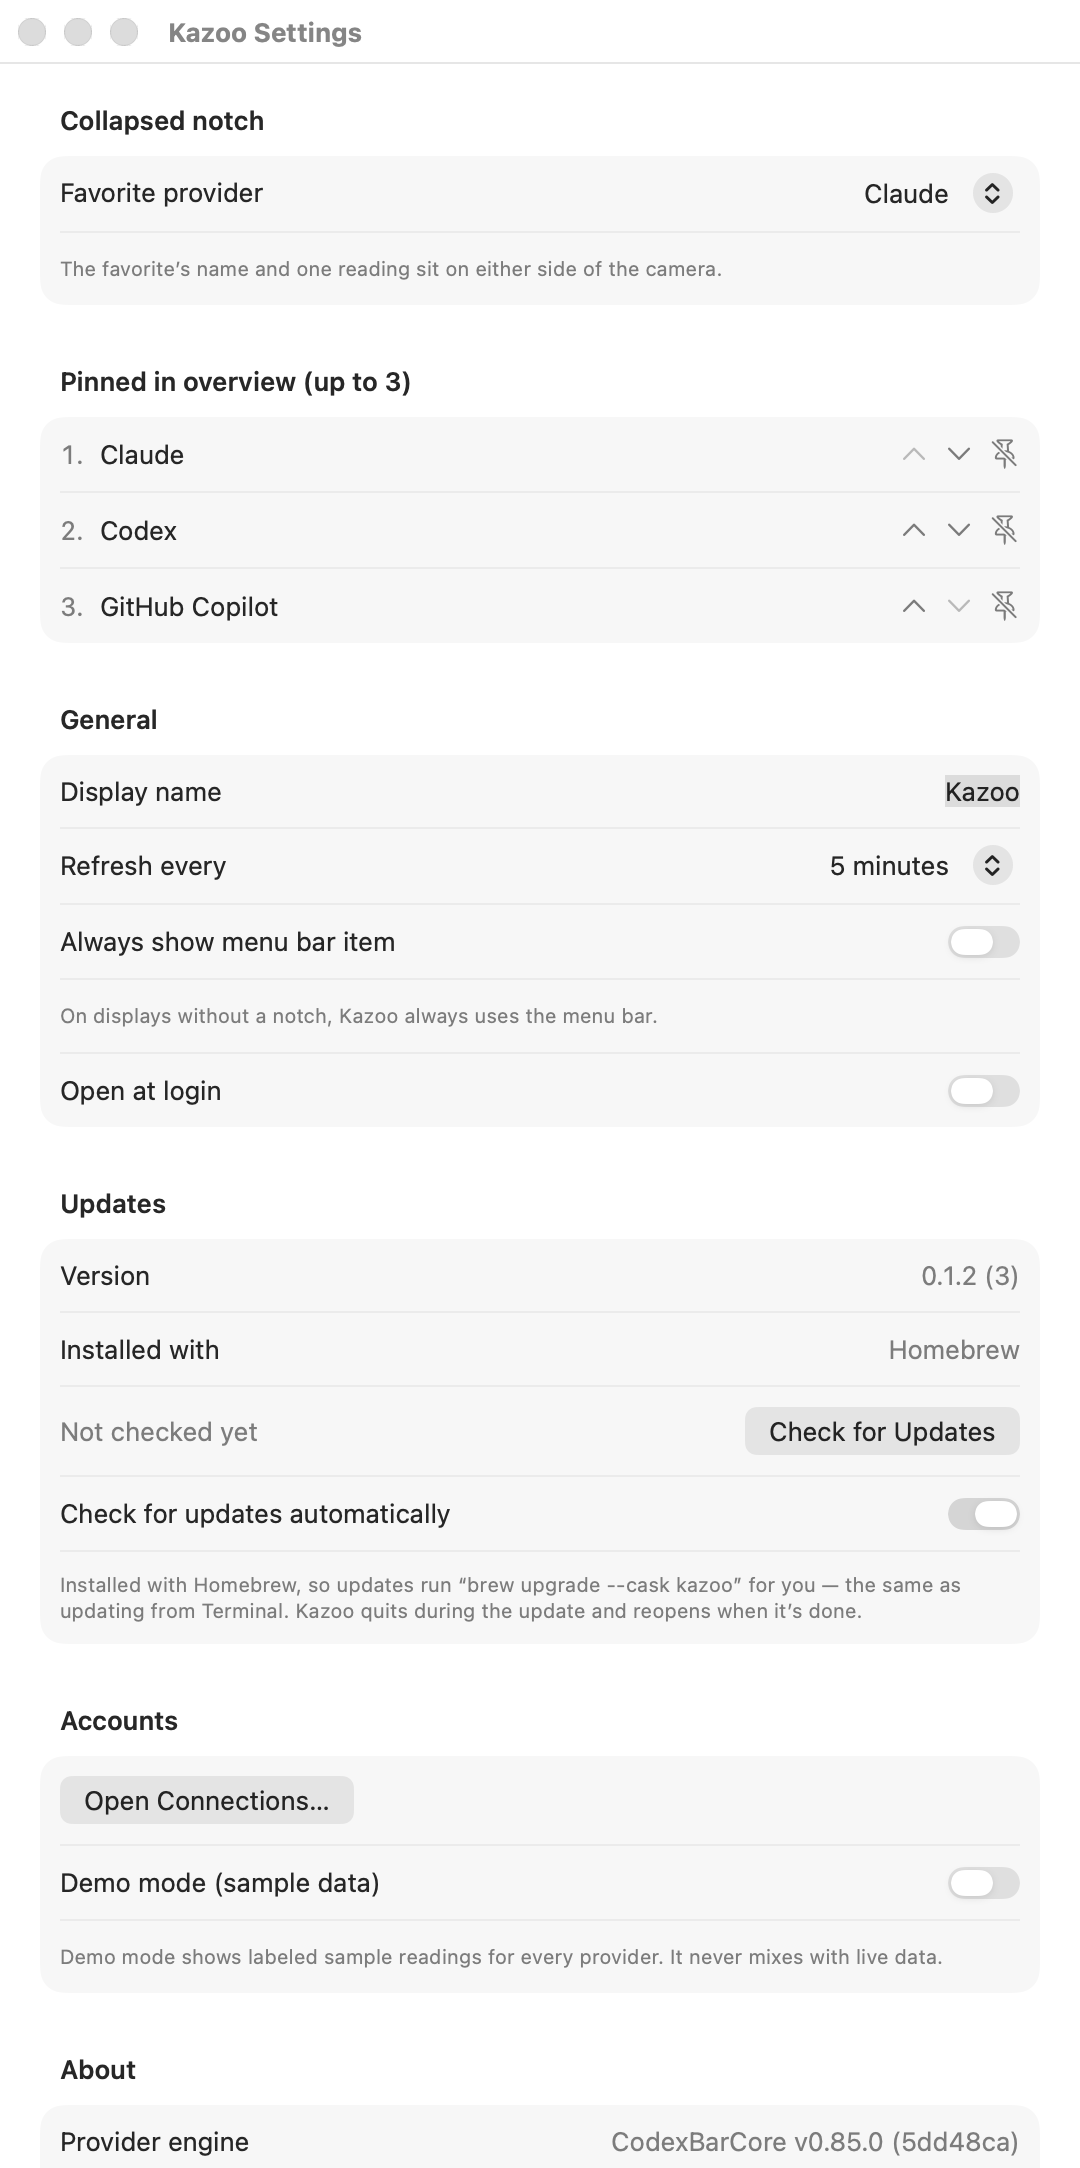
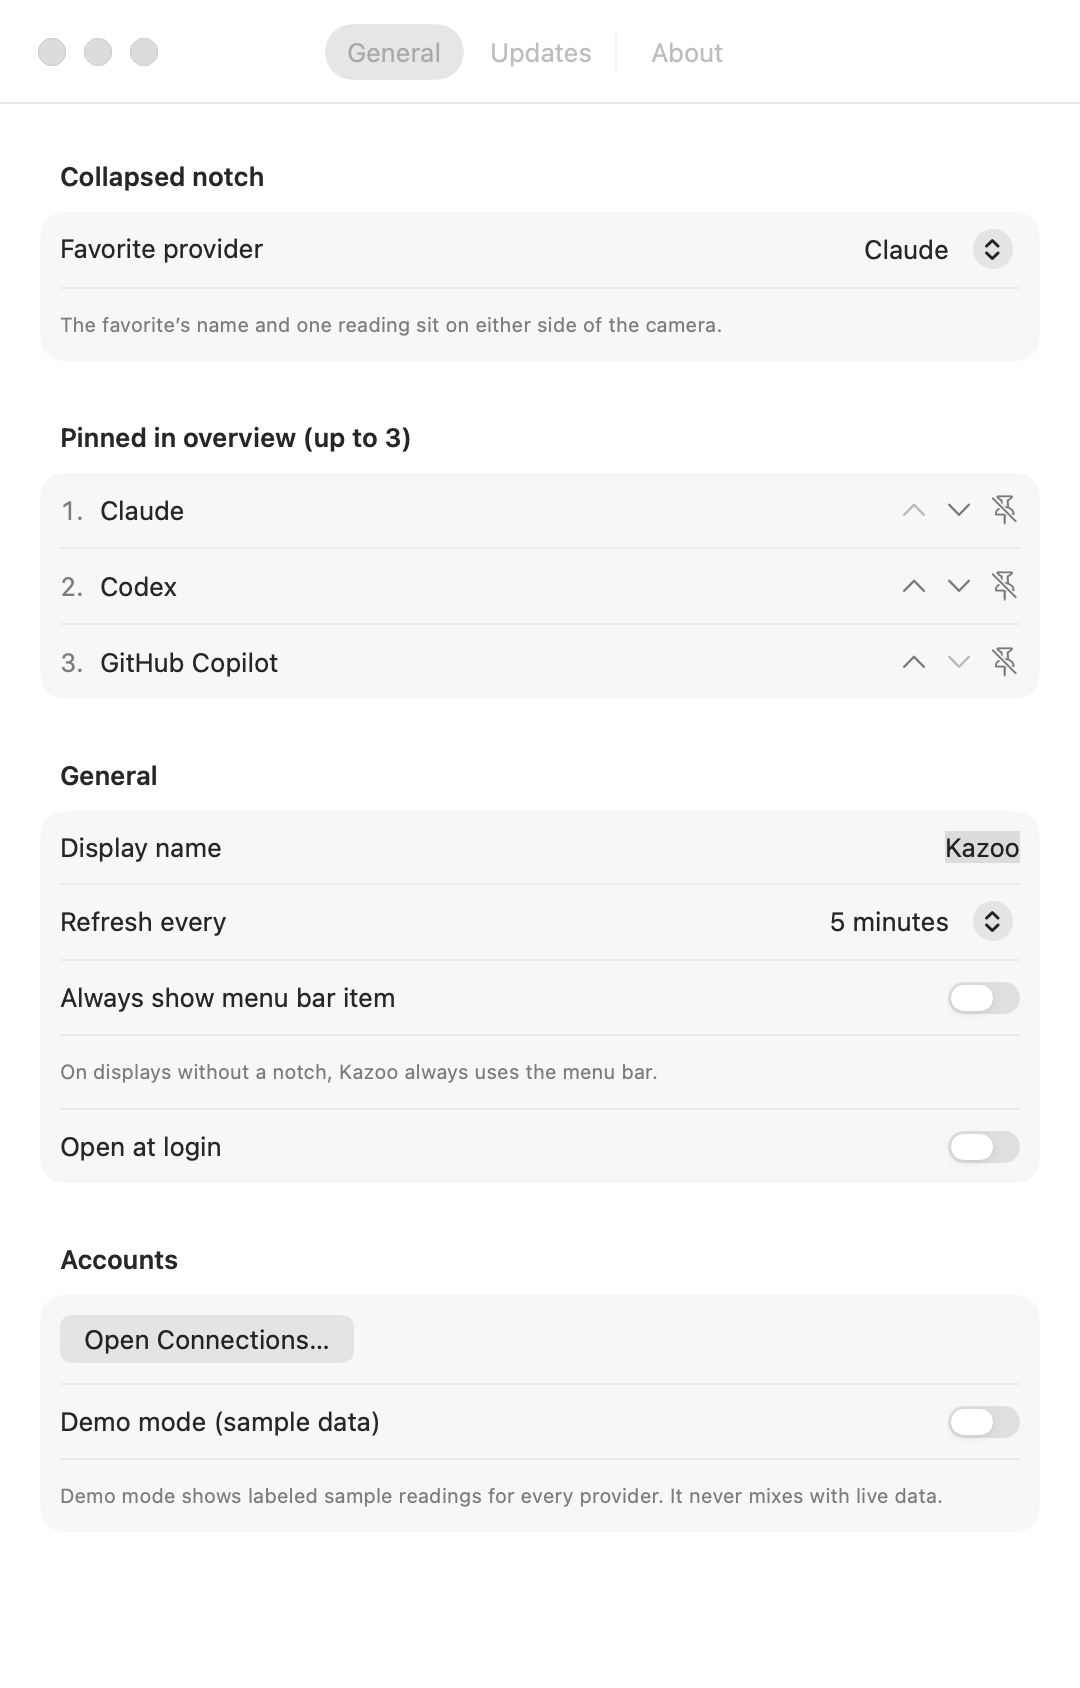
fixed updates issues

diff --git a/KazooKit/Sources/KazooKit/UI/SettingsView.swift b/KazooKit/Sources/KazooKit/UI/SettingsView.swift
@@ -1,22 +1,79 @@
 import ServiceManagement
 import SwiftUI
 
-/// Native Settings: favorite, pinned order, display, refresh, demo, about.
+/// The tabs of the Settings window.
+public enum SettingsTab: String, Hashable, Sendable {
+    case general
+    case updates
+    case about
+}
+
+/// Which Settings tab is showing; lets menu items such as "Check for Updates…" open a specific tab.
+@MainActor
+public final class SettingsNavigation: ObservableObject {
+    @Published public var tab: SettingsTab
+    public init(tab: SettingsTab = .general) { self.tab = tab }
+}
+
+/// Native Settings window: General (notch, pins, display, accounts), Updates, and About tabs.
 public struct SettingsView: View {
     @ObservedObject var store: UsageStore
     let updates: UpdateController?
+    @ObservedObject var navigation: SettingsNavigation
     let openConnections: () -> Void
     @State private var launchAtLogin = SMAppService.mainApp.status == .enabled
     @State private var launchError: String?
     @State private var showNotices = false
 
-    public init(store: UsageStore, updates: UpdateController? = nil, openConnections: @escaping () -> Void) {
+    public init(
+        store: UsageStore,
+        updates: UpdateController? = nil,
+        navigation: SettingsNavigation = SettingsNavigation(),
+        openConnections: @escaping () -> Void)
+    {
         self.store = store
         self.updates = updates
+        self.navigation = navigation
         self.openConnections = openConnections
     }
 
     public var body: some View {
+        TabView(selection: self.$navigation.tab) {
+            self.generalTab
+                .tabItem { Label("General", systemImage: "gearshape") }
+                .tag(SettingsTab.general)
+            if let updates {
+                Form { UpdatesSection(updates: updates) }
+                    .formStyle(.grouped)
+                    .tabItem { Label("Updates", systemImage: "arrow.down.circle") }
+                    .tag(SettingsTab.updates)
+            }
+            self.aboutTab
+                .tabItem { Label("About", systemImage: "info.circle") }
+                .tag(SettingsTab.about)
+        }
+        .padding(.top, 8)
+        .frame(minWidth: 480, minHeight: 520)
+        .sheet(isPresented: self.$showNotices) { NoticesView() }
+    }
+
+    private var aboutTab: some View {
+        Form {
+            Section {
+                if let updates {
+                    LabeledContent("Version", value: "\(updates.currentVersion) (\(updates.buildNumber))")
+                } else {
+                    LabeledContent("Version", value: Self.version)
+                }
+                LabeledContent("Provider engine", value: "CodexBarCore v0.85.0 (5dd48ca)")
+                Link("Kazoo on GitHub", destination: URL(string: "https://github.com/devmithunnath/kazoo")!)
+                Button("Third-party notices…") { self.showNotices = true }
+            }
+        }
+        .formStyle(.grouped)
+    }
+
+    private var generalTab: some View {
         Form {
             Section("Collapsed notch") {
                 if self.store.connectedProviders.isEmpty {
@@ -89,10 +146,6 @@ public struct SettingsView: View {
                 }
             }
 
-            if let updates {
-                UpdatesSection(updates: updates)
-            }
-
             Section("Accounts") {
                 Button("Open Connections…", action: self.openConnections)
                 Toggle("Demo mode (sample data)", isOn: Binding(
@@ -102,17 +155,8 @@ public struct SettingsView: View {
                     .font(.caption).foregroundStyle(.secondary)
             }
 
-            Section("About") {
-                if self.updates == nil {
-                    LabeledContent("Version", value: Self.version)
-                }
-                LabeledContent("Provider engine", value: "CodexBarCore v0.85.0 (5dd48ca)")
-                Button("Third-party notices…") { self.showNotices = true }
-            }
         }
         .formStyle(.grouped)
-        .frame(minWidth: 460, minHeight: 560)
-        .sheet(isPresented: self.$showNotices) { NoticesView() }
     }
 
     private func move(_ provider: ProviderID, by offset: Int) {

diff --git a/Kazoo/WindowCoordinator.swift b/Kazoo/WindowCoordinator.swift
@@ -25,6 +25,7 @@ final class WindowCoordinator: NSObject, NSWindowDelegate {
     private var settingsWindow: NSWindow?
 
     private let updates: UpdateController
+    private let settingsNavigation = SettingsNavigation()
 
     init(store: UsageStore, updates: UpdateController) {
         self.store = store
@@ -47,15 +48,17 @@ final class WindowCoordinator: NSObject, NSWindowDelegate {
         self.present(self.connectionsWindow)
     }
 
-    func showSettings() {
+    func showSettings(tab: SettingsTab? = nil) {
+        if let tab { self.settingsNavigation.tab = tab }
         if self.settingsWindow == nil {
-            let controller = NSHostingController(rootView: SettingsView(store: self.store, updates: self.updates) { [weak self] in
+            let controller = NSHostingController(rootView: SettingsView(store: self.store, updates: self.updates,
+                                                                   navigation: self.settingsNavigation) { [weak self] in
                 self?.showConnections()
             })
             let window = NSWindow(contentViewController: controller)
             window.styleMask = [.titled, .closable, .miniaturizable, .resizable]
-            window.setContentSize(NSSize(width: 520, height: 640))
-            window.setFrameAutosaveName("KazooSettings")
+            window.setContentSize(NSSize(width: 540, height: 620))
+            window.setFrameAutosaveName("KazooSettingsTabs")
             window.isReleasedWhenClosed = false
             window.delegate = self
             self.settingsWindow = window

diff --git a/Kazoo/AppDelegate.swift b/Kazoo/AppDelegate.swift
@@ -102,7 +102,7 @@ final class AppDelegate: NSObject, NSApplicationDelegate {
         self.startUpdateChecks()
         if arguments.contains("--open-settings") {
             // QA: open Settings at launch.
-            DispatchQueue.main.asyncAfter(deadline: .now() + 0.8) { self.windows.showSettings() }
+            DispatchQueue.main.asyncAfter(deadline: .now() + 0.8) { self.windows.showSettings(tab: .updates) }
         } else if arguments.contains("--open-panel") {
             // QA: open the expanded panel at launch.
             DispatchQueue.main.asyncAfter(deadline: .now() + 0.8) { self.notch.expand() }
@@ -161,7 +161,7 @@ final class AppDelegate: NSObject, NSApplicationDelegate {
 
     @objc private func menuCheckForUpdates() {
         self.dismissPanels()
-        self.windows.showSettings()
+        self.windows.showSettings(tab: .updates)
         if self.updates.availableRelease == nil { self.updates.checkNow() }
     }
 

diff --git a/KazooKit/Sources/KazooRender/Scenes.swift b/KazooKit/Sources/KazooRender/Scenes.swift
@@ -137,6 +137,10 @@ func renderScreenshots(to out: URL) {
                                    installMethod: .homebrew(brewPath: "/opt/homebrew/bin/brew"),
                                    fetcher: nil, defaults: UserDefaults(suiteName: "kazoo.render") ?? .standard)
     captureWindow(SettingsView(store: connections, updates: updates, openConnections: {}),
-                  size: CGSize(width: 540, height: 1060), title: "Kazoo Settings",
+                  size: CGSize(width: 540, height: 760), title: "Kazoo Settings",
                   to: out.appendingPathComponent("settings.png"))
+    captureWindow(SettingsView(store: connections, updates: updates, navigation: SettingsNavigation(tab: .updates),
+                               openConnections: {}),
+                  size: CGSize(width: 540, height: 520), title: "Kazoo Settings",
+                  to: out.appendingPathComponent("settings-updates.png"))
 }

diff --git a/Casks/kazoo.rb b/Casks/kazoo.rb
@@ -1,6 +1,6 @@
 cask "kazoo" do
-  version "0.1.2"
[1 lines of base64/hex data omitted]
+  version "0.1.3"
[1 lines of base64/hex data omitted]
 
   url "https://github.com/devmithunnath/kazoo/releases/download/v#{version}/Kazoo-#{version}.zip"
   name "Kazoo"
